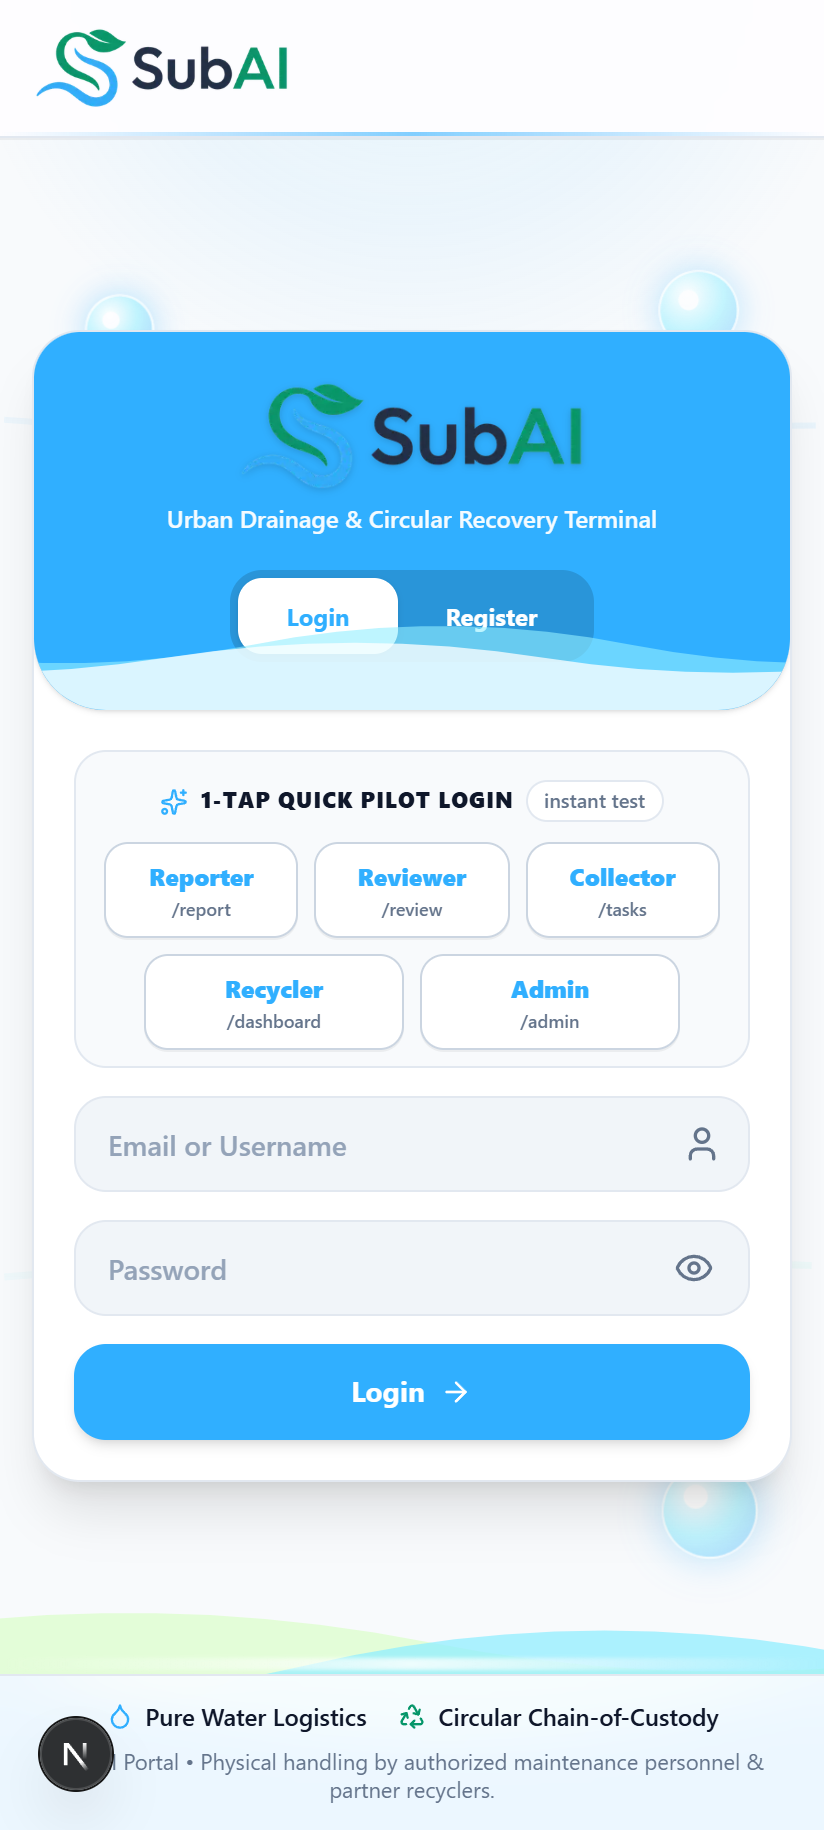
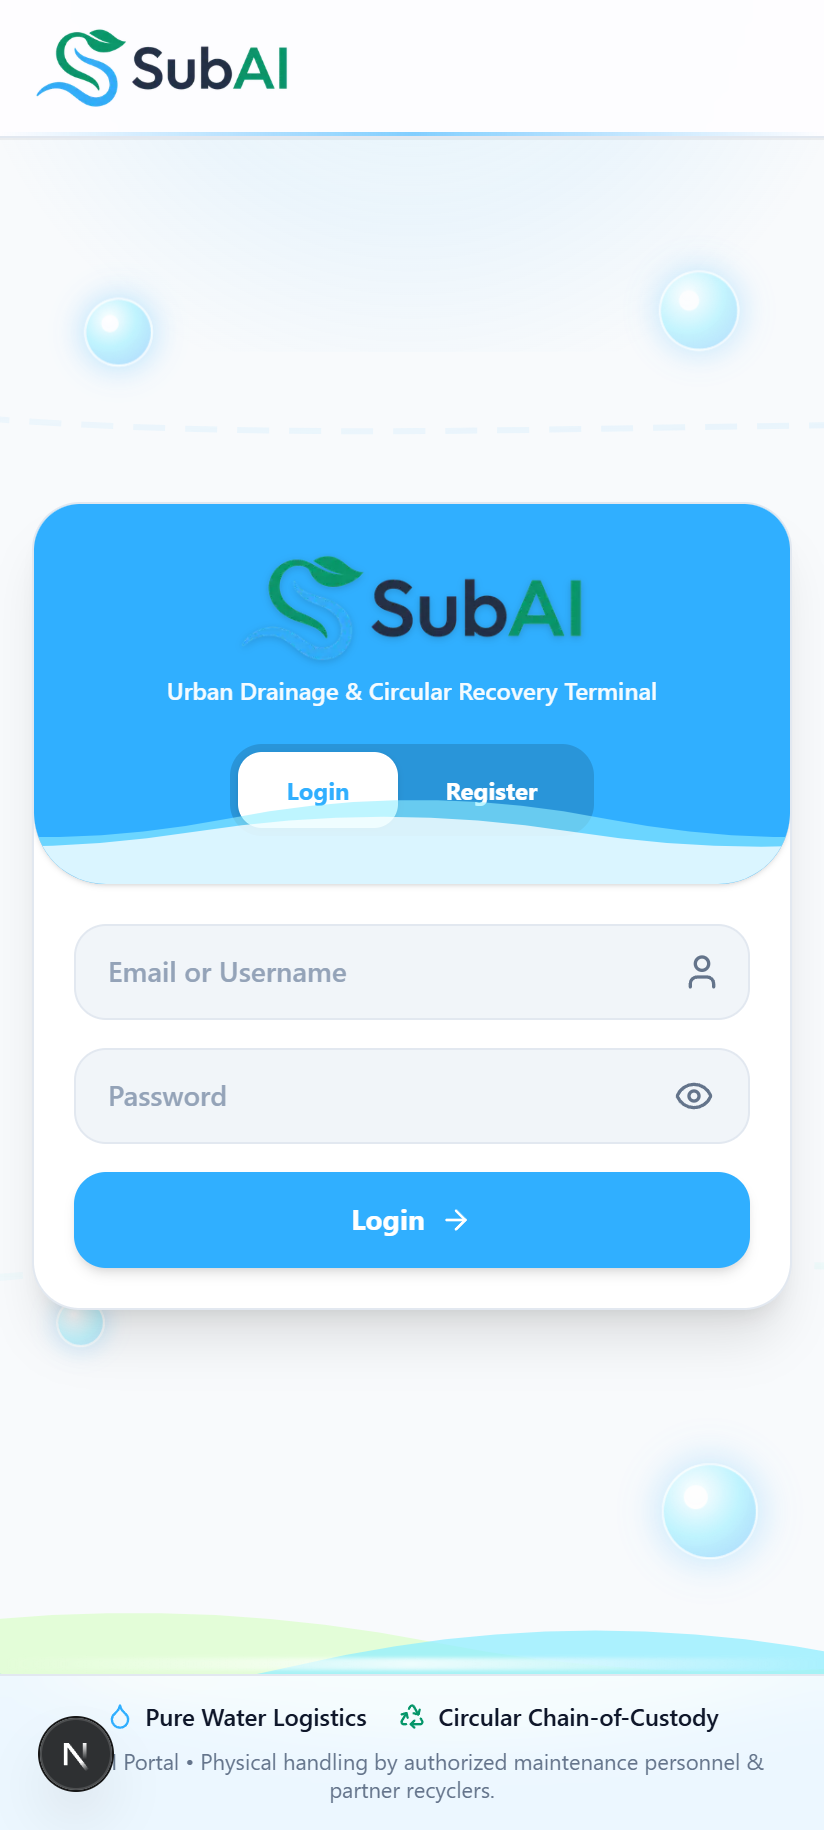
fix(screenshots): add /login redirect, fix 01b_portal_login screenshot and add 1-min explainer srt

diff --git a/scripts/capture_ai_report_screenshot.js b/scripts/capture_ai_report_screenshot.js
@@ -1,0 +1,117 @@
+const puppeteer = require('puppeteer-core');
+const path = require('path');
+const fs = require('fs');
+
+function findEdgeExecutable() {
+  const edgeCoreDir = 'C:\\Program Files (x86)\\Microsoft\\EdgeCore';
+  if (fs.existsSync(edgeCoreDir)) {
+    const subdirs = fs.readdirSync(edgeCoreDir);
+    for (const subdir of subdirs) {
+      const exePath = path.join(edgeCoreDir, subdir, 'msedge.exe');
+      if (fs.existsSync(exePath)) return exePath;
+    }
+  }
+  const standardEdge = 'C:\\Program Files (x86)\\Microsoft\\Edge\\Application\\msedge.exe';
+  if (fs.existsSync(standardEdge)) return standardEdge;
+  return null;
+}
+
+const wait = (ms) => new Promise((resolve) => setTimeout(resolve, ms));
+
+async function run() {
+  const edgePath = findEdgeExecutable();
+  console.log('Using browser executable:', edgePath);
+  if (!edgePath) {
+    throw new Error('Edge executable not found');
+  }
+
+  const mobileDir = path.resolve(__dirname, '..', 'presentation_screenshots', 'mobile');
+  const desktopDir = path.resolve(__dirname, '..', 'presentation_screenshots', 'desktop');
+  if (!fs.existsSync(mobileDir)) fs.mkdirSync(mobileDir, { recursive: true });
+  if (!fs.existsSync(desktopDir)) fs.mkdirSync(desktopDir, { recursive: true });
+
+  const testImagePath = path.resolve(__dirname, '..', 'image test', 'images (3).jpg');
+  console.log('Target test image:', testImagePath);
+
+  const browser = await puppeteer.launch({
+    executablePath: edgePath,
+    headless: 'new',
+    args: ['--no-sandbox', '--disable-setuid-sandbox'],
+  });
+
+  // Mobile Viewport: 412x915
+  const page = await browser.newPage();
+  await page.setViewport({
+    width: 412,
+    height: 915,
+    isMobile: true,
+    hasTouch: true,
+    deviceScaleFactor: 2,
+  });
+
+  // Suppress PWA
+  await page.evaluateOnNewDocument(() => {
+    localStorage.setItem('subai_pwa_dismissed_at', '9999999999999');
+    localStorage.setItem('subai_pwa_suppress', 'true');
+  });
+
+  console.log('Navigating to http://localhost:3000/report ...');
+  await page.goto('http://localhost:3000/report', { waitUntil: 'networkidle2', timeout: 30000 });
+  await wait(1500);
+
+  // Remove PWA banners
+  await page.evaluate(() => {
+    document.querySelectorAll('[data-pwa-banner], .pwa-install-banner').forEach((el) => el.remove());
+  });
+
+  // Find file input
+  console.log('Uploading test image to file input...');
+  const fileInput = await page.$('input[type="file"]:not([capture])');
+  if (!fileInput) {
+    console.error('Could not find file input!');
+  } else {
+    await fileInput.uploadFile(testImagePath);
+    console.log('Uploaded image, waiting for Gemini Vision analysis...');
+    
+    // Wait for the AI analysis card to appear or up to 10 seconds
+    try {
+      await page.waitForFunction(
+        () => document.body.innerText.includes('AI Vision Analysis') || document.body.innerText.includes('AI Scan Result') || document.body.innerText.includes('Detected Materials') || document.body.innerText.includes('Confidence') || document.body.innerText.includes('Culvert') || document.body.innerText.includes('Canal'),
+        { timeout: 15000 }
+      );
+      console.log('AI Analysis card detected on page!');
+    } catch (e) {
+      console.log('Wait timeout or text not found, continuing after 6s wait...');
+      await wait(6000);
+    }
+  }
+
+  await wait(2000);
+
+  const mobileScreenshotPath = path.join(mobileDir, '02b_report_ai_analysis.png');
+  await page.screenshot({ path: mobileScreenshotPath });
+  console.log('Saved mobile screenshot:', mobileScreenshotPath);
+
+  // Also capture clean 02_report_citizen.png
+  await page.goto('http://localhost:3000/report', { waitUntil: 'networkidle2', timeout: 30000 });
+  await wait(1500);
+  await page.screenshot({ path: path.join(mobileDir, '02_report_citizen.png') });
+
+  // Also capture clean 01_landing_home.png
+  await page.goto('http://localhost:3000', { waitUntil: 'networkidle2', timeout: 30000 });
+  await wait(1500);
+  await page.screenshot({ path: path.join(mobileDir, '01_landing_home.png') });
+
+  // Also capture login screen
+  await page.goto('http://localhost:3000/login', { waitUntil: 'networkidle2', timeout: 30000 });
+  await wait(1500);
+  await page.screenshot({ path: path.join(mobileDir, '01b_portal_login.png') });
+
+  await browser.close();
+  console.log('Capture finished successfully!');
+}
+
+run().catch((err) => {
+  console.error('Error running capture:', err);
+  process.exit(1);
+});

diff --git a/scripts/fix_login_screenshot.js b/scripts/fix_login_screenshot.js
@@ -1,0 +1,100 @@
+const puppeteer = require('puppeteer-core');
+const path = require('path');
+const fs = require('fs');
+
+function findEdgeExecutable() {
+  const edgeCoreDir = 'C:\\Program Files (x86)\\Microsoft\\EdgeCore';
+  if (fs.existsSync(edgeCoreDir)) {
+    const subdirs = fs.readdirSync(edgeCoreDir);
+    for (const subdir of subdirs) {
+      const exePath = path.join(edgeCoreDir, subdir, 'msedge.exe');
+      if (fs.existsSync(exePath)) return exePath;
+    }
+  }
+  const standardEdge = 'C:\\Program Files (x86)\\Microsoft\\Edge\\Application\\msedge.exe';
+  if (fs.existsSync(standardEdge)) return standardEdge;
+  return null;
+}
+
+const wait = (ms) => new Promise((resolve) => setTimeout(resolve, ms));
+
+async function run() {
+  const edgePath = findEdgeExecutable();
+  console.log('Using browser executable:', edgePath);
+
+  const mobileDir = path.resolve(__dirname, '..', 'presentation_screenshots', 'mobile');
+  const artifactMobileDir = 'C:\\Users\\BeboyPC\\.gemini\\antigravity\\brain\\7fd7c8c5-66d2-4866-b1a3-baad6f2c4e71\\mobile';
+
+  const browser = await puppeteer.launch({
+    executablePath: edgePath,
+    headless: 'new',
+    args: ['--no-sandbox', '--disable-setuid-sandbox'],
+  });
+
+  const page = await browser.newPage();
+  await page.setViewport({
+    width: 412,
+    height: 915,
+    isMobile: true,
+    hasTouch: true,
+    deviceScaleFactor: 2,
+  });
+
+  // Suppress PWA
+  await page.evaluateOnNewDocument(() => {
+    localStorage.setItem('subai_pwa_dismissed_at', '9999999999999');
+    localStorage.setItem('subai_pwa_suppress', 'true');
+  });
+
+  console.log('Navigating to http://localhost:3000 ...');
+  await page.goto('http://localhost:3000', { waitUntil: 'networkidle2', timeout: 30000 });
+  await wait(1500);
+
+  // Clean out PWA banners immediately
+  await page.evaluate(() => {
+    document.querySelectorAll('[data-pwa-banner], .pwa-install-banner').forEach((el) => el.remove());
+  });
+
+  // Focus and type admin credentials into the login inputs to make it look great
+  try {
+    const emailInput = await page.$('input[name="email"], input[type="text"], input[placeholder*="email" i], input[placeholder*="username" i]');
+    if (emailInput) {
+      await emailInput.type('admin', { delay: 50 });
+    }
+    const passwordInput = await page.$('input[type="password"]');
+    if (passwordInput) {
+      await passwordInput.type('subai123', { delay: 50 });
+    }
+  } catch (err) {
+    console.log('Optional input typing skipped:', err.message);
+  }
+
+  await wait(1000);
+
+  const outMobilePath = path.join(mobileDir, '01b_portal_login.png');
+  await page.screenshot({ path: outMobilePath });
+  console.log('Saved corrected mobile login screenshot:', outMobilePath);
+
+  // Also copy to artifact dir
+  if (fs.existsSync(artifactMobileDir)) {
+    fs.copyFileSync(outMobilePath, path.join(artifactMobileDir, '01b_portal_login.png'));
+    console.log('Copied to artifact directory:', path.join(artifactMobileDir, '01b_portal_login.png'));
+  }
+
+  // Also ensure 01_landing_home.png is refreshed
+  await page.goto('http://localhost:3000', { waitUntil: 'networkidle2', timeout: 30000 });
+  await wait(1500);
+  const outHomePath = path.join(mobileDir, '01_landing_home.png');
+  await page.screenshot({ path: outHomePath });
+  if (fs.existsSync(artifactMobileDir)) {
+    fs.copyFileSync(outHomePath, path.join(artifactMobileDir, '01_landing_home.png'));
+  }
+
+  await browser.close();
+  console.log('Login screenshots fixed and updated successfully!');
+}
+
+run().catch((err) => {
+  console.error('Error running capture:', err);
+  process.exit(1);
+});

diff --git a/src/app/login/page.tsx b/src/app/login/page.tsx
@@ -1,0 +1,5 @@
+import { redirect } from "next/navigation";
+
+export default function LoginPage() {
+  redirect("/");
+}
